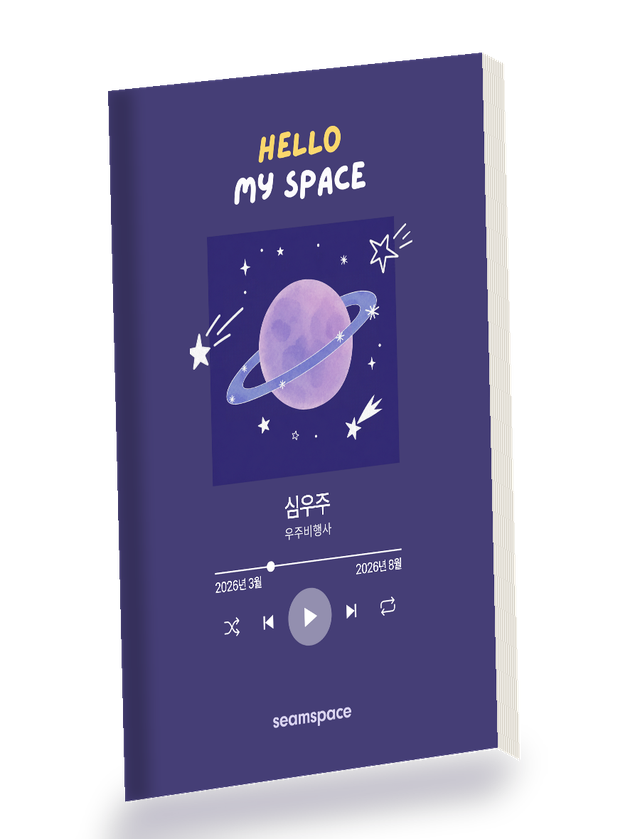
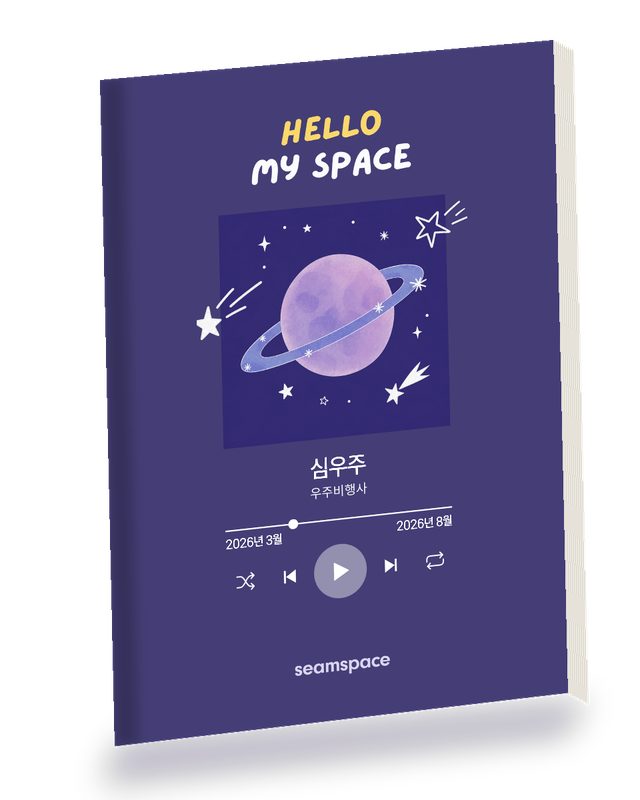
feat: 구글 계정 로그인 + 책 샘플 A5 비율로 교정
## 구글 로그인

백엔드 API 문서(diarytestapi /api/docs)에서 /mDiary_app/google_sso_login/ 을
찾았다. 화면에서 Google Sign-In 으로 받은 id_token 을 넘기면 mDiary 가
검증하고 일반 로그인과 같은 액세스 토큰을 내준다.

- mdiary.google_login() — 토큰 추출은 아이디 로그인과 같아 _session_from() 으로 공유
- 가입 안 된 구글 계정은 needs_register 로 오는데, 여기서 대신 가입시키지 않는다.
  약관 동의와 그룹 설정이 앱 흐름에 묶여 있고 주문 화면이 그걸 대신할 자리가 아니다
- customer/google_login.py → 검증 후 기존과 같은 서명 세션 발급
- 버튼은 VITE_GOOGLE_CLIENT_ID 가 있을 때만 뜬다. 없으면 지금처럼 안내 문구만

**아직 동작하지 않는다** — 웹용 구글 클라이언트 ID 가 필요하다.

## 책 샘플

원근 사각형을 눈대중으로 잡아 가로세로비가 0.53 이었다. A5 는 0.705 다 —
실제 책보다 훨씬 홀쭉해 다른 물건으로 보였다. 오른쪽이 멀어지며 줄어드는
만큼만 좁게 0.69 로 다시 잡았다.

Claude-Session: https://claude.ai/code/session_01NycQdPthRvJ5fAeqLZS6b9

diff --git a/src/lib/print-customer.ts b/src/lib/print-customer.ts
@@ -95,6 +95,14 @@ export function customerLogin(username: string, password: string) {
   return post<CustomerSession>('login', { username, password });
 }
 
+/**
+ * 구글 계정 로그인. 화면에서 받은 Google id_token 을 그대로 넘긴다 —
+ * 검증과 '어느 마음일기 사용자인가' 연결은 mDiary 가 한다.
+ */
+export function customerGoogleLogin(idToken: string) {
+  return post<CustomerSession>('google_login', { idToken });
+}
+
 export function fetchCustomerStats(session: string, mode?: SplitMode) {
   return post<CustomerStats>('stats', { session, mode });
 }

diff --git a/api/print/_lib/mdiary.py b/api/print/_lib/mdiary.py
@@ -52,28 +52,75 @@ def login(username, password):
             status=401,
         )
 
+    return _session_from(res, fallback_username=username)
+
+
+def _access_token(res):
+    """
+    로그인 응답에서 액세스 토큰을 꺼낸다.
+
+    토큰은 보통 set-cookie 의 ss_access_token 으로 온다. requests 가 쿠키를
+    못 읽는 경우가 있어 헤더 원문도 본다. 예전 형식(본문에 token)도 받아 둔다.
+    아이디 로그인과 구글 로그인이 같은 방식이라 공유한다.
+    """
     token = res.cookies.get("ss_access_token")
     if not token:
         m = re.search(r"ss_access_token=([^;]+)", res.headers.get("set-cookie", ""))
         if m:
             token = m.group(1)
     if not token:
-        # 예전 형식(본문에 token) 서버를 만나면 이쪽으로 떨어진다.
         try:
-            token = (res.json() or {}).get("token")
+            token = (res.json() or {}).get("token") or (res.json() or {}).get("access_token")
         except ValueError:
             token = None
+    return token
+
+
+def _session_from(res, fallback_username=""):
+    token = _access_token(res)
+    data = {}
+    try:
+        data = res.json() or {}
+    except ValueError:
+        pass
+
     if not token:
         cookies = ", ".join(res.cookies.keys()) or "없음"
-        try:
-            keys = ", ".join((res.json() or {}).keys())
-        except ValueError:
-            keys = "(JSON 아님)"
+        keys = ", ".join(data.keys()) if data else "(JSON 아님)"
         raise MDiaryError(
             f"로그인은 됐지만 액세스 토큰을 받지 못했습니다. "
             f"쿠키=[{cookies}] 본문키=[{keys}]",
             status=401,
         )
+
+    return {
+        "token": token,
+        "username": data.get("username") or fallback_username,
+        "name": data.get("name") or "",
+    }
+
+
+def google_login(id_token, origin="group"):
+    """
+    구글 계정으로 로그인한다 — /mDiary_app/google_sso_login/.
+
+    화면에서 Google Sign-In 으로 받은 id_token 을 넘기면 mDiary 가 검증하고
+    일반 로그인과 같은 액세스 토큰을 내준다.
+
+    **가입이 안 된 구글 계정은 needs_register 로 돌아온다.** 여기서 대신
+    가입시키지 않는다 — 약관 동의와 그룹 설정이 앱 쪽 흐름에 묶여 있고,
+    출력 주문 화면이 회원가입을 대신할 자리가 아니다.
+    """
+    if not id_token:
+        raise MDiaryError("구글 로그인 정보가 비어 있습니다.", status=400)
+    try:
+        res = requests.post(
+            f"{BASE_URL}/mDiary_app/google_sso_login/",
+            json={"id_token": id_token, "origin": origin},
+            timeout=TIMEOUT,
+        )
+    except requests.RequestException as e:
+        raise MDiaryError(f"일기 서버에 연결하지 못했습니다: {e}")
 
     data = {}
     try:
@@ -81,11 +128,18 @@ def login(username, password):
     except ValueError:
         pass
 
-    return {
-        "token": token,
-        "username": data.get("username") or username,
-        "name": data.get("name") or "",
-    }
+    if data.get("needs_register"):
+        raise MDiaryError(
+            "마음일기에 가입되지 않은 구글 계정입니다. 앱에서 먼저 가입해 주세요.",
+            status=403,
+        )
+    if res.status_code != 200:
+        detail = (res.text or "").strip().replace("\n", " ")[:120]
+        raise MDiaryError(
+            f"구글 로그인 거부됨 (HTTP {res.status_code}) — {detail or '응답 본문 없음'}",
+            status=401,
+        )
+    return _session_from(res)
 
 
 def is_admin(username):

diff --git a/api/print/customer/google_login.py b/api/print/customer/google_login.py
@@ -1,0 +1,44 @@
+"""
+POST /api/print/customer/google_login  {idToken} -> {session, username, name}
+
+구글 계정으로 가입한 사용자용. 화면에서 Google Sign-In 으로 받은 id_token 을
+mDiary(/mDiary_app/google_sso_login/)가 검증하고, 성공하면 아이디 로그인과
+같은 액세스 토큰을 내준다. 그 뒤는 customer/login 과 완전히 같다 —
+username 을 서명해 묶은 세션을 돌려주고, 이후 요청에서는 본문의 아이디를 보지 않는다.
+
+**id_token 검증은 우리가 하지 않는다.** mDiary 가 구글에 대조하고 자기 사용자와
+연결까지 한다. 우리가 따로 검증해 봐야 '이 구글 계정이 어느 마음일기 사용자인지'는
+알 수 없다.
+"""
+
+import os
+import sys
+from http.server import BaseHTTPRequestHandler
+
+sys.path.insert(0, os.path.dirname(os.path.dirname(os.path.abspath(__file__))))
+
+from _lib import mdiary, session
+from _lib.http import read_json, send_json
+
+
+class handler(BaseHTTPRequestHandler):
+    def do_POST(self):
+        try:
+            body = read_json(self)
+            id_token = (body.get("idToken") or "").strip()
+            if not id_token:
+                return send_json(self, {"error": "구글 로그인 정보가 없습니다."}, 400)
+
+            info = mdiary.google_login(id_token)
+            token = session.make_session(info["username"], info["name"], info["token"])
+            return send_json(
+                self,
+                {"session": token, "username": info["username"], "name": info["name"]},
+            )
+        except session.SessionError as e:
+            return send_json(self, {"error": str(e)}, e.status)
+        except mdiary.MDiaryError as e:
+            return send_json(self, {"error": str(e)}, e.status)
+        except Exception as e:  # noqa: BLE001
+            print(f"[customer/google_login] 오류: {e}", file=sys.stderr)
+            return send_json(self, {"error": "구글 로그인 처리 중 오류가 발생했습니다."}, 500)
